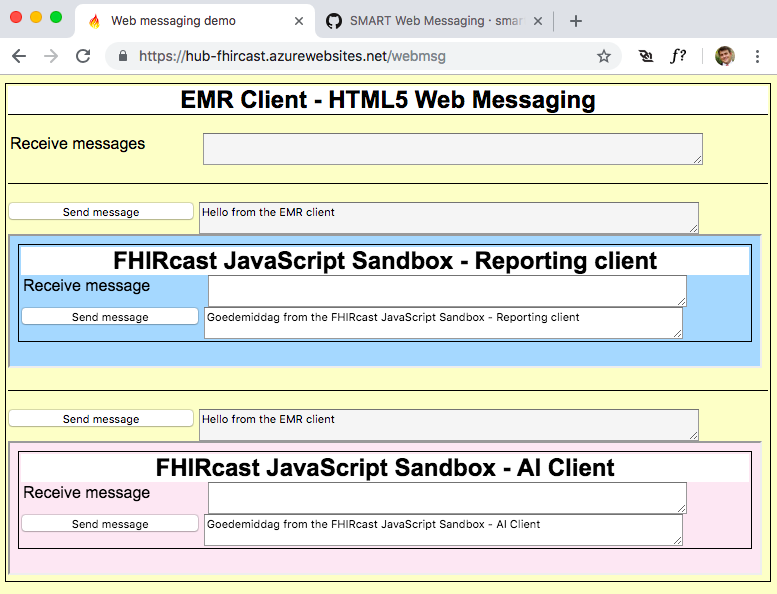
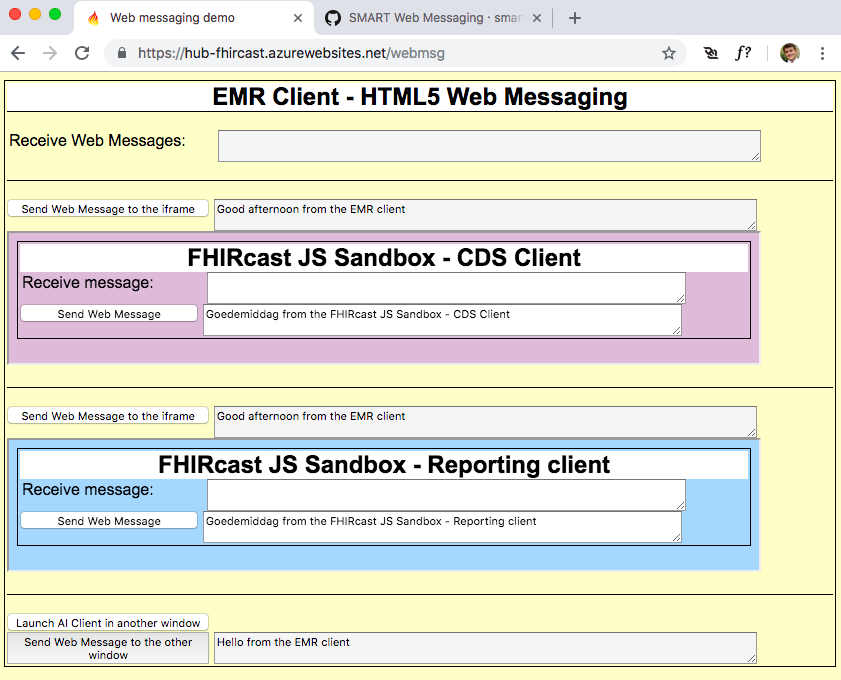
launchSeperateWindow

diff --git a/webmessage.html b/webmessage.html
@@ -6,7 +6,7 @@
             body {padding: 2px;  background-color: rgb(255,255,204);font-family: Arial, Helvetica, sans-serif; font-weight: 500;border: 1px solid black; font-size: 16}
             header {background-color:white; text-align:center; border-bottom: 1px solid black;}
             h2 { display: inline; background-color:white; text-align:center;}
-            div.reporting,div.ai {border-top: 1px solid black;}
+            div.cds, div.reporting,div.ai {border-top: 1px solid black;}
             label,button {padding: 2px; display: inline-block;width: 24.5%}
             input,textarea,select {width: 65%;border:1px solid}
             textarea {vertical-align: top;background-color:whitesmoke}
@@ -16,23 +16,42 @@
     <body>
         <header><h2><span id="docTitle">EMR Client - HTML5 Web Messaging</span></h2></header>       
         </br>
-        <label>Receive messages</label>
+        <label>Receive Web Messages:</label>
         <textarea id="receiveMessage"></textarea>
         </br></br>
-        <div class="reporting">
+        <div class="cds">
             </br>
-            <button onclick="postMessage('https://reporting-fhircast.azurewebsites.net','Reporting','iframeReporting')">Send message</button>
-            <textarea id="Reporting">Hello from the EMR client</textarea>
-            <iframe id="iframeReporting" src="https://reporting-fhircast.azurewebsites.net?webmessage=true" width="750" height="130" ></iframe>
+            <button onclick="postMessage('https://cds-fhircast.azurewebsites.net','cds','iframecds')">Send Web Message to the iframe</button>
+            <textarea id="cds">Good afternoon from the EMR client</textarea>
+            <iframe id="iframecds" src="https://cds-fhircast.azurewebsites.net?webmessage=true" width="750" height="130" ></iframe>
+            </br></br>
         </div>
+        
+       <div class="reporting">
         </br>
+            <button onclick="postMessage('https://reporting-fhircast.azurewebsites.net','Reporting','iframeReporting')">Send Web Message to the iframe</button>
+            <textarea id="Reporting">Good afternoon from the EMR client</textarea>
+            <iframe id="iframeReporting" src="https://reporting-fhircast.azurewebsites.net?webmessage=true" width="750" height="130" ></iframe>
+            </br></br>
+        </div>
+        
         <div class="ai">
             </br>
-            <button onclick="postMessage('https://ai-fhircast.azurewebsites.net','ai','iframeAi')">Send message</button>
+            <button onclick="launchAIClient()">Launch AI Client in another window</button>
+            </br>
+            <button onclick="postMessageAI('https://ai-fhircast.azurewebsites.net','ai')">Send Web Message to the other window</button>
             <textarea id="ai">Hello from the EMR client</textarea>
-            <iframe id="iframeAi" src="https://ai-fhircast.azurewebsites.net?webmessage=true" width="750" height="130" ></iframe>
         </div>
     <script>
+        var aiClient=null;
+        function launchAIClient(){
+            aiClient=window.open('https://ai-fhircast.azurewebsites.net?webmessage=true');
+        }
+        function postMessageAI(url,elementId){
+            var message= document.getElementById(elementId).value;
+            aiClient.postMessage(message,'*');         
+        }
+
         function postMessage(url,elementId,frameId){
                 var o = document.getElementById(frameId);
                 var message= document.getElementById(elementId).value;

diff --git a/sandbox.html b/sandbox.html
@@ -88,9 +88,9 @@
  </div>
 
 <div class="webmessage" id="webmessage">
-    <label>Receive message</label>
+    <label>Receive message:</label>
     <textarea id="receiveMessage"></textarea>
-    <button onclick="postMessageSandbox()">Send message</button>
+    <button onclick="postMessageSandbox()">Send Web Message</button>
     <textarea id="sendWebMessage">Goedemiddag from the client</textarea>
 </div>
 <script>

diff --git a/README.md b/README.md
@@ -83,9 +83,11 @@ Notice that the 'hub.topic' input textbox has been populated with the SMART sess
 Alternatively, test the SMART launch by navigating to the SMART launch sandbox: http://launch.smarthealthit.org and selecting a patient, provider and the app url which can be a local instance in debug mode.
 
 ###  HTML5 Web Messaging 
-[SMART Web Messaging](https://github.com/smart-on-fhir/smart-on-fhir.github.io/wiki/SMART-Web-Messaging) proposes HTML5 Web Messaging for communication between the EMR and Clinical Desicion Support (CDS) applications. This [webmsg endpoint](https://fhircast.azurewebsites.net/webmsg) explores how Web Messaging could work in other scenarios without yet implementing the SMART authorization. 
+[SMART Web Messaging](https://github.com/smart-on-fhir/smart-on-fhir.github.io/wiki/SMART-Web-Messaging) proposes HTML5 Web Messaging for communication between the EMR and Clinical Decision Support (CDS) applications. This [webmsg endpoint](https://fhircast.azurewebsites.net/webmsg) explores how Web Messaging could work in other scenarios without yet implementing the SMART authorization. 
 ![webmessage](/images/webmessage.png)
-Click the 'Send' buttons to see 'postMessage()' actions across iframes.
+
+
+Click the 'Send' buttons to see 'postMessage()' actions across iframes.  The 'Launch AI in another window' button may produce a 'pop-up' warning in your browser.
 ## Simulate workflows
 Use the [PACS client](https://pacs-fhircast.azurewebsites.net/)  to subscripe and receive events from the hub.  Check the hub.callback input box value of this client.  How does it differ from the hub?
 
